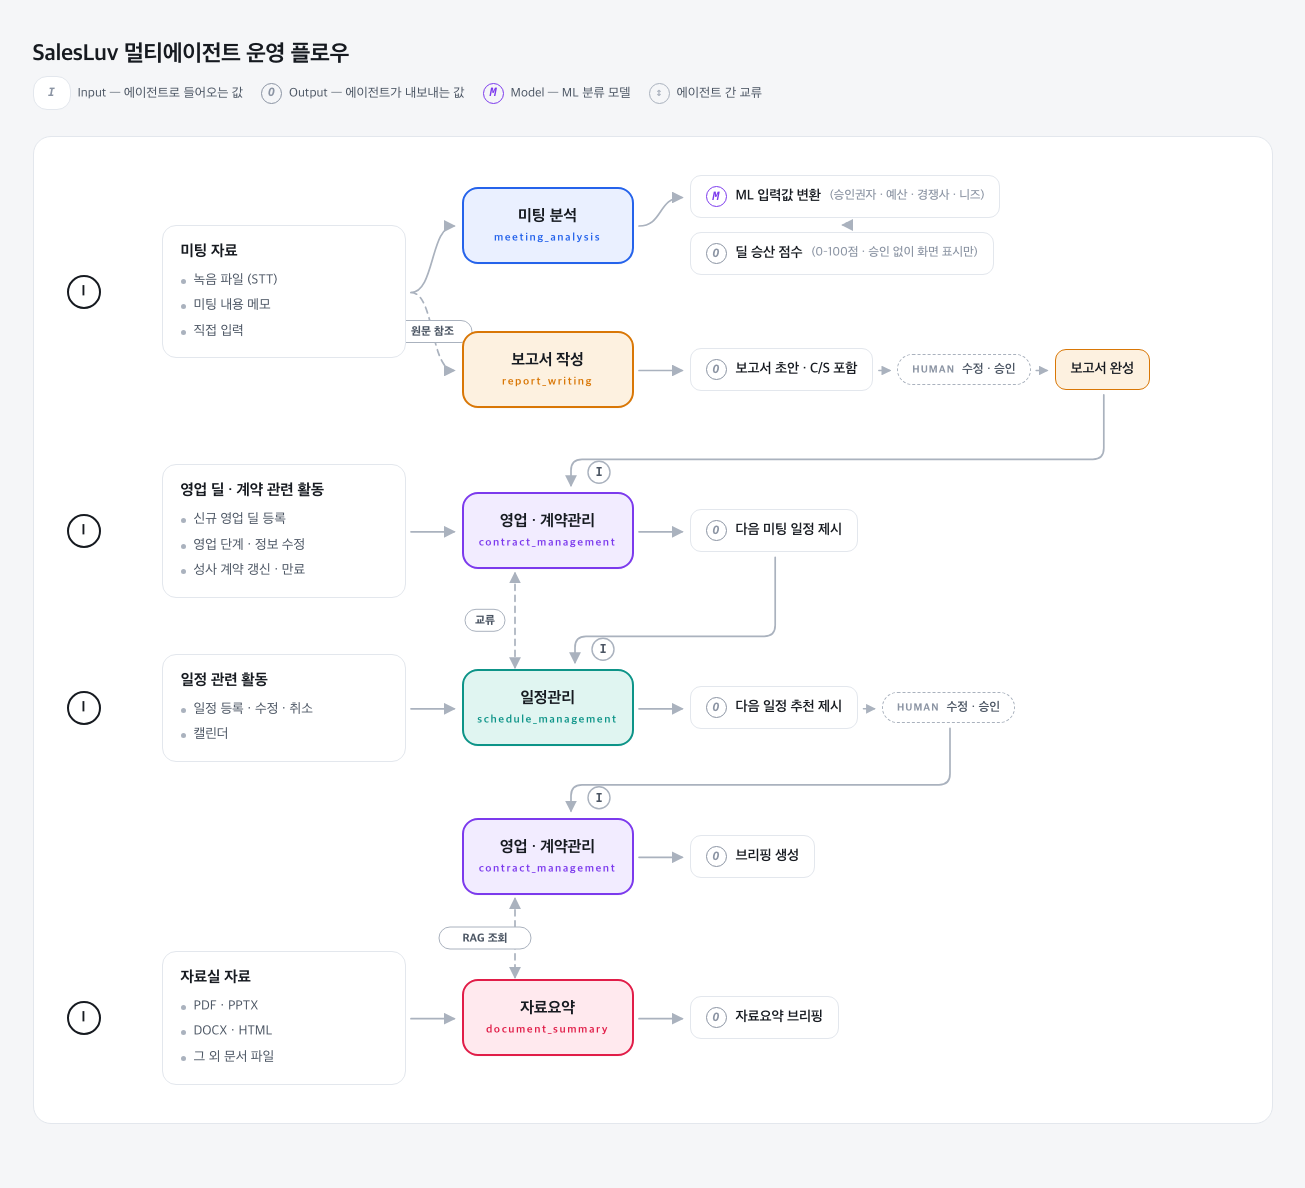
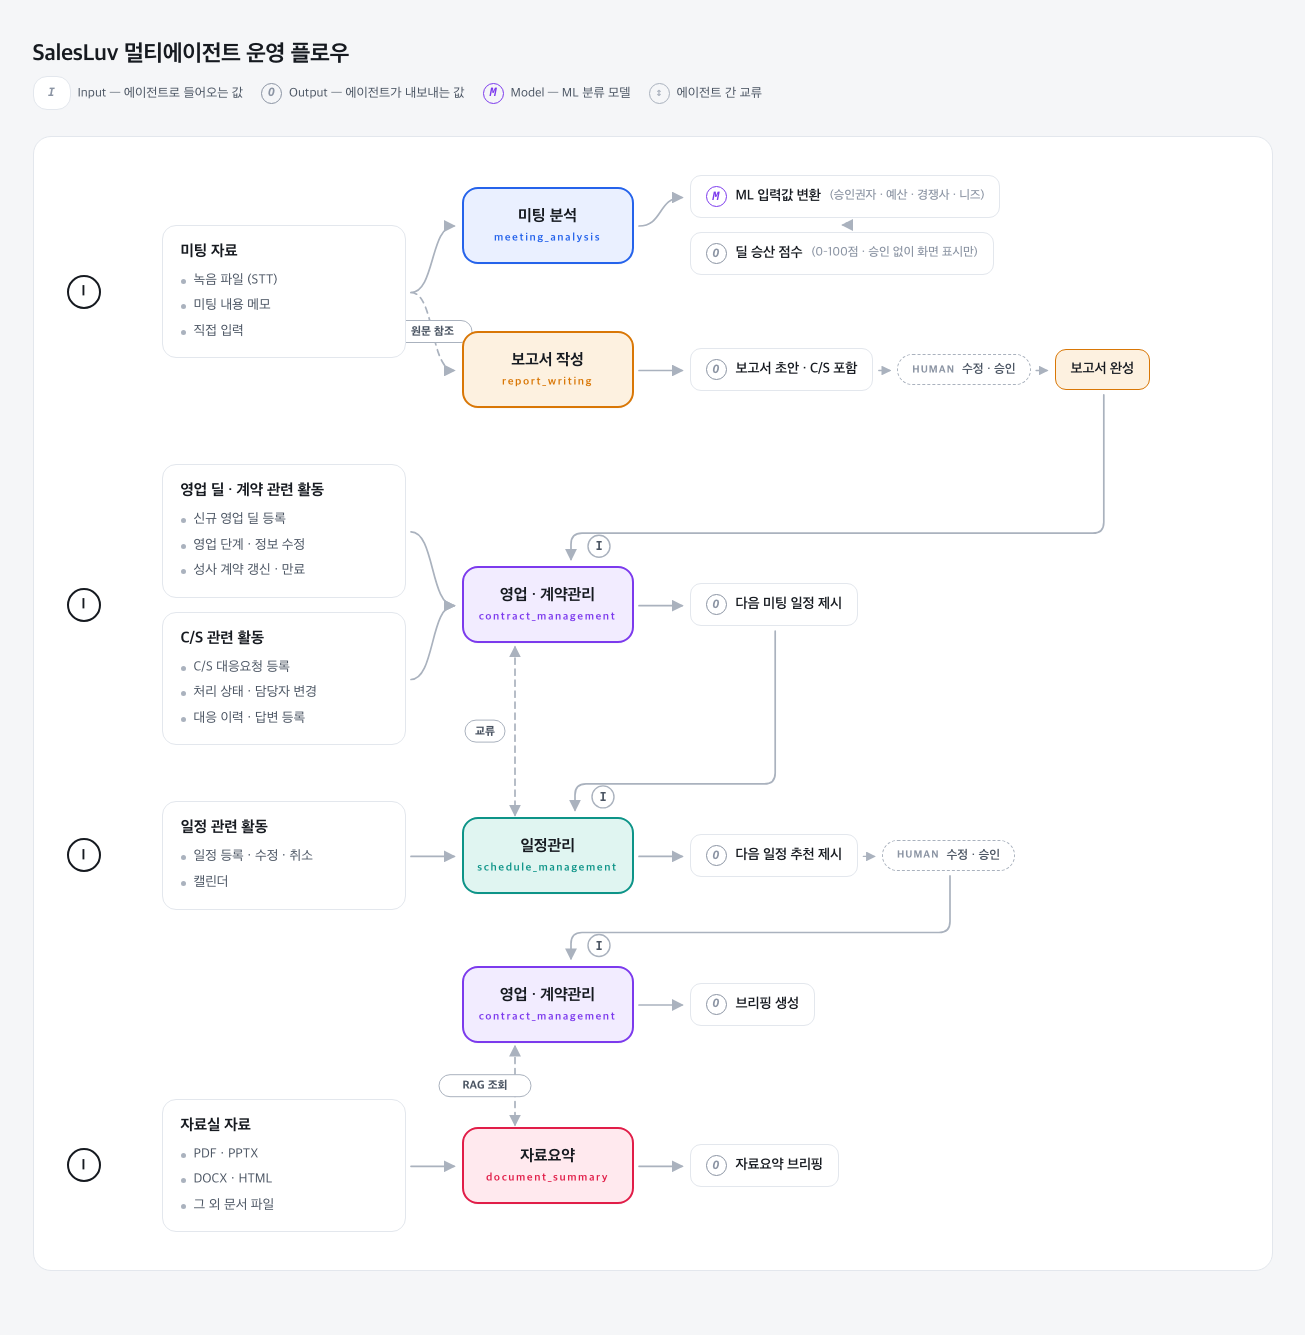
docs: 영업·계약관리 에이전트의 C/S 관련 활동 입력 추가
- 다이어그램 계약 단계 왼쪽에 C/S 관련 활동 입력 카드와 연결선 추가
- 설명서·개요서의 계약관리 입력 목록에 C/S 대응요청 등록·처리 활동 반영
- 구조도 캡처 이미지 재생성

diff --git a/docs/technical/SalesLuv_멀티에이전트_운영_플로우.html b/docs/technical/SalesLuv_멀티에이전트_운영_플로우.html
@@ -213,13 +213,23 @@
     <!-- ============ 계약 ============ -->
     <div class="stage" style="grid-area:st2">I</div>
 
-    <div class="in" id="in2" style="grid-area:in2">
-      <h3>영업 딜 · 계약 관련 활동</h3>
-      <ul>
-        <li>신규 영업 딜 등록</li>
-        <li>영업 단계 · 정보 수정</li>
-        <li>성사 계약 갱신 · 만료</li>
-      </ul>
+    <div style="grid-area:in2; display:flex; flex-direction:column; gap:14px">
+      <div class="in" id="in2">
+        <h3>영업 딜 · 계약 관련 활동</h3>
+        <ul>
+          <li>신규 영업 딜 등록</li>
+          <li>영업 단계 · 정보 수정</li>
+          <li>성사 계약 갱신 · 만료</li>
+        </ul>
+      </div>
+      <div class="in" id="in5">
+        <h3>C/S 관련 활동</h3>
+        <ul>
+          <li>C/S 대응요청 등록</li>
+          <li>처리 상태 · 담당자 변경</li>
+          <li>대응 이력 · 답변 등록</li>
+        </ul>
+      </div>
     </div>
 
     <div class="agent a3" id="ag-contract" style="grid-area:ag3">
@@ -298,6 +308,7 @@
     ['o-human',      'o-final',     'line', {thin:true}],
 
     ['in2',          'ag-contract', 'line'],
+    ['in5',          'ag-contract', 'line'],
     ['ag-contract',  'o-nextmeet',  'line'],
 
     ['in3',          'ag-schedule', 'line'],

diff --git a/docs/technical/미팅_보고서_계약_일정_Agent_흐름.md b/docs/technical/미팅_보고서_계약_일정_Agent_흐름.md
@@ -32,7 +32,8 @@ docs\technical\SalesLuv_멀티에이전트_운영_플로우.html
 - **Input**:
   - 보고서작성 Agent가 완성한 보고서 (승인된 것만)
   - 계약 관련 활동 — 신규 계약 등록, 기존 계약 수정, 계약 만료·삭제
-- **처리**: 두 입력을 결합해 계약 현황을 요약하고, 위험(만료·납품·장기 미접촉)을 판정하고, 다음 미팅이 필요한지 판단한다.
+  - C/S 관련 활동 — C/S 대응요청 등록, 처리 상태·담당자 변경, 대응 이력·답변 등록
+- **처리**: 위 입력을 결합해 계약 현황을 요약하고, 위험(만료·납품·장기 미접촉)을 판정하고, 다음 미팅이 필요한지 판단한다.
 - **데이터가 부족할 때**: 보고서가 아직 승인 전이거나 필요한 항목(니즈·구매장벽·접촉신호·다음미팅안건)이 비어 있으면, 브리핑에 "무엇이 부족한지"를 그대로 보여준다 — 억지로 채우거나 추측하지 않는다. 계약관리 Agent MVP는 이 부분을 실제로 구현해뒀다: 보고서 쪽 출력을 `ApprovedMeetingInsight`(전부 optional 필드)로 받고, 값이 없으면 브리핑에 "승인된 미팅 분석 결과 연동 대기 중입니다"라고 표시한다(`backend/app/schemas/contract_briefing.py`, `backend/app/services/contract_briefing_llm.py`).
 - **Output**: 다음 미팅 일정 제시 → 일정관리 Agent의 입력(`I`)이 된다.
 - **브리핑은 이 시점에 만들지 않는다**: 일정관리 Agent가 추천한 다음 일정을 사용자가 승인해 계약관리 Agent로 다시 들어온 뒤에 생성한다(5단계).
